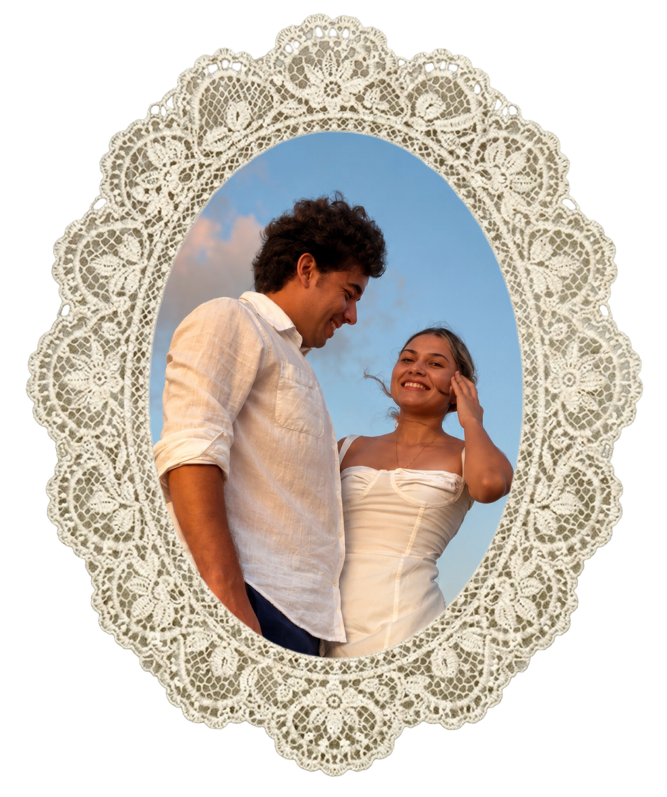
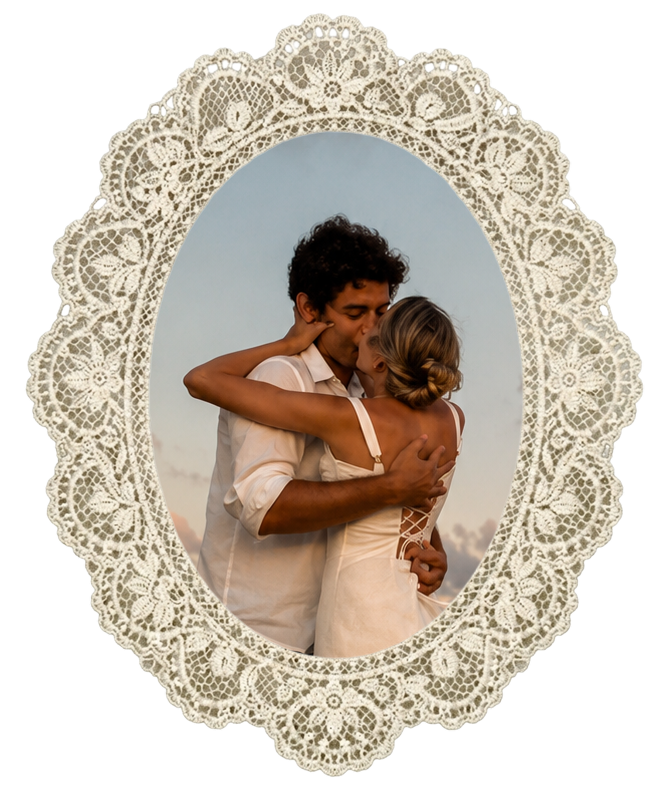
Fix: alteração de foto

Changed region(s): [[0.2099, 0.1506, 0.8096, 0.8432]]

diff --git a/components/sections/Hero.tsx b/components/sections/Hero.tsx
@@ -28,7 +28,7 @@ export default function Hero() {
       {/* Foto do casal, já com moldura, centralizada */}
       <div className="relative w-[300px] h-[360px] sm:w-[280px] sm:h-[350px] md:w-[400px] md:h-[480px] mx-auto">
         <Image
-          src="/foto-casal1.png"
+          src="/foto-casal.png"
           alt="Lavinia e Jefferson"
           fill
           className="object-contain"
